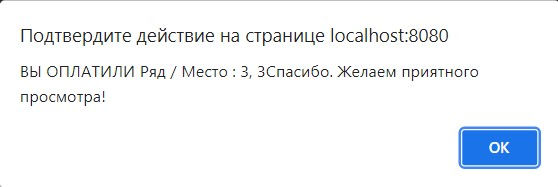
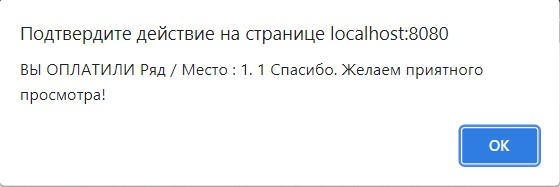
ReamMe #003

diff --git a/README.md b/README.md
@@ -2,6 +2,20 @@
 
 Site for buying tickets to the cinema.
 
+- Main menu.
+  You can see the active places are highlighted in a light tone,
+  the places that are not available for selection (occupied) are dark.
+  
+  ![Image of Arch](https://github.com/SlartiBartFast-art/job4j_cinema/blob/main/image/Screenshot_1.jpg)
+
+- After choosing a seat, you will see confirmation of your choice.
+  ![Image of Arch](https://github.com/SlartiBartFast-art/job4j_cinema/blob/main/image/Screenshot_2.jpg)
+  
+- After that,
+you will be redirected to the form for entering personal data and paying for the selected seat.
+  
+  ![Image of Arch](https://github.com/SlartiBartFast-art/job4j_cinema/blob/main/image/Screenshot_3.jpg)
+
  Used stack technologies:
 -  Java (Back-end)
 -  PSQL (data-base)
@@ -10,3 +24,4 @@ Site for buying tickets to the cinema.
  Libraries (java):
 -    Jackson (parse JSON)
 -    PostgreSQL
+
